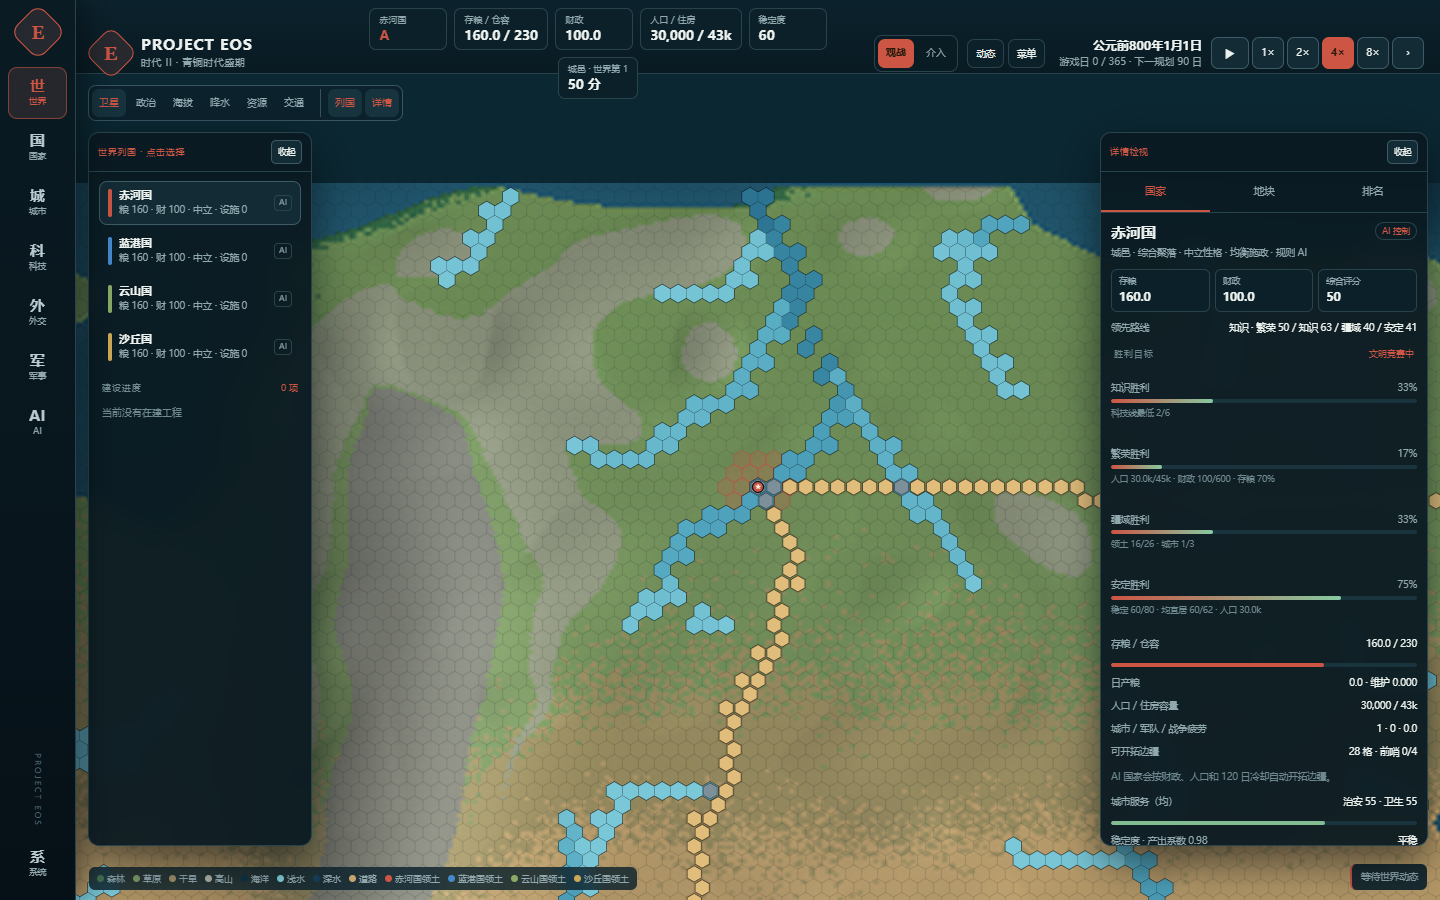
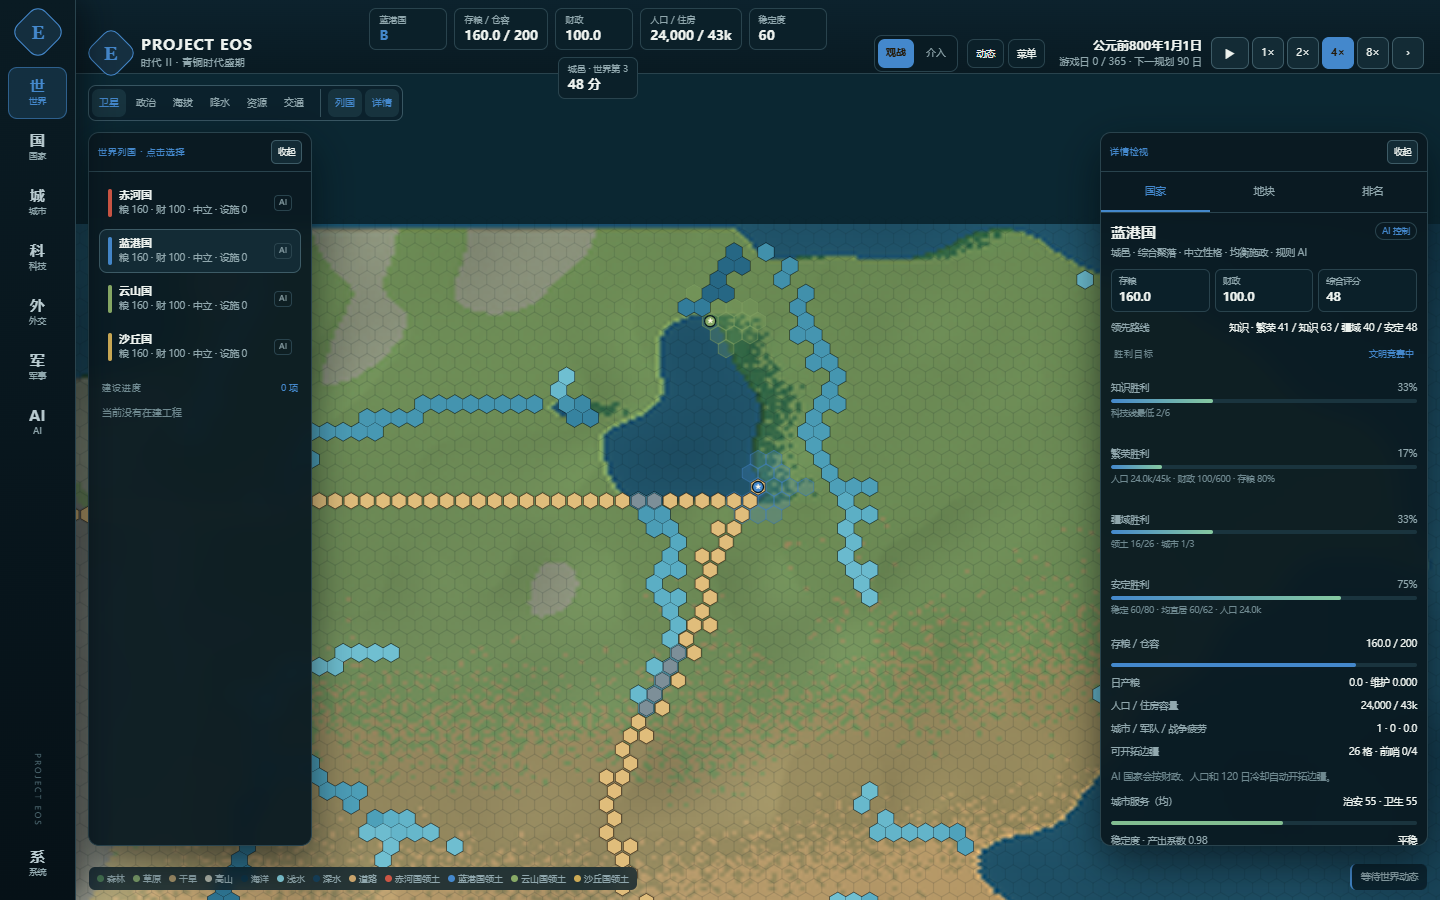
fix(map): keep city centers on dry land
- Exclude river cells from v2 capital placement
- Reject SETTLE on river water and filter river tiles from AI frontier choices
- Disable the settle button for river tiles in the UI
- Refresh v2 screenshots and test counts

diff --git a/dashboard.html b/dashboard.html
@@ -1024,6 +1024,7 @@ function settleConditions(tile){
   const expansion=STATE.expansion||{};
   const adjacent=(country.tiles||[]).some(coord=>hexDistance([tile.col,tile.row],coord)===1);
   const unowned=!tile.owner;
+  const dryLand=!tile.river;
   const outpostOk=(country.outposts||[]).length<(expansion.max_outposts??4);
   const popOk=country.population>=(expansion.minimum_population??10000);
   const cost=expansion.treasury_cost??35;
@@ -1031,11 +1032,12 @@ function settleConditions(tile){
   const checks=[
     {label:'与本国领土相邻',ok:adjacent},
     {label:'地块无归属',ok:unowned},
+    {label:'不是河道水面',ok:dryLand},
     {label:`新建城市 ${(country.outposts||[]).length} / ${expansion.max_outposts??4}`,ok:outpostOk},
     {label:`人口 ≥ ${fmtInt(expansion.minimum_population??10000)}`,ok:popOk},
     {label:`国库 ≥ ${cost}（现有 ${fmtNum(country.treasury,1)}）`,ok:moneyOk},
   ];
-  return {adjacent,ok:adjacent&&unowned&&outpostOk&&popOk&&moneyOk,checks,cost};
+  return {adjacent,ok:adjacent&&unowned&&dryLand&&outpostOk&&popOk&&moneyOk,checks,cost};
 }
 function canSettleHere(tile){
   return settleConditions(tile).ok;
@@ -1048,7 +1050,7 @@ function frontierTiles(cid){
   const result=[];
   for(const [col,row] of (country.tiles||[]))for(const [nc,nr] of hexNeighbors(col,row)){
     const key=nc+','+nr;if(owned.has(key))continue;
-    const tile=getTile(nc,nr);if(tile&&tile[2])result.push([nc,nr]);
+    const tile=getTile(nc,nr);if(tile&&tile[2]&&!tile[5])result.push([nc,nr]);
   }
   return result;
 }

diff --git a/mapgen.py b/mapgen.py
@@ -102,7 +102,7 @@ def _archetype_specs(land, elev, biome, p, tmean, river, basin, slope, dist_ocea
     }
 
 
-def _place_capitals(countries, land, elev, biome, p, tmean, river, basin, slope, dist_ocean, hazards, lat, w=W, h=H, allow_fallback=False):
+def _place_capitals(countries, land, elev, biome, p, tmean, river, basin, slope, dist_ocean, hazards, lat, w=W, h=H, allow_fallback=False, forbidden=None):
     specs = _archetype_specs(
         land, elev, biome, p, tmean, river, basin, slope, dist_ocean, hazards, lat
     )
@@ -113,6 +113,8 @@ def _place_capitals(countries, land, elev, biome, p, tmean, river, basin, slope,
         location = None
         for separation in (12, 10, 8, 6):
             candidate_scores = np.where(valid, score, -1e8).copy()
+            if forbidden is not None:
+                candidate_scores[forbidden] = -1e8
             for capital in placed:
                 for y in range(H):
                     for x in range(W):
@@ -125,6 +127,8 @@ def _place_capitals(countries, land, elev, biome, p, tmean, river, basin, slope,
                 break
         if location is None and allow_fallback:
             candidate_scores = np.where(land, score, -1e8).copy()
+            if forbidden is not None:
+                candidate_scores[forbidden] = -1e8
             for capital in placed:
                 for y in range(h):
                     for x in range(w):

diff --git a/mapgen_v2.py b/mapgen_v2.py
@@ -337,7 +337,7 @@ def _generate_candidate(seed: int, countries: list[dict[str, Any]]) -> dict[str,
     capitals = mapgen._place_capitals(
         countries, polity_land, v2_elev, polity_biome, polity_p, polity_tmean,
         polity_river, polity_basin, v2_slope, polity_dist_ocean,
-        polity_hazards, polity_lat, V2_WIDTH, V2_HEIGHT, True,
+        polity_hazards, polity_lat, V2_WIDTH, V2_HEIGHT, True, polity_river,
     )
     available = polity_land.copy()
     ownership, territories = mapgen._grow_equal_territories(
@@ -517,6 +517,11 @@ def validate_v2(world: dict[str, Any]) -> bool:
         assert len(polity["initial_tiles"]) == mapgen.CORE_TILES
         capital = (polity["capital"]["col"], polity["capital"]["row"])
         assert capital in {tuple(coord) for coord in polity["initial_tiles"]}
+        capital_tile = next(
+            tile for tile in world["tiles"]
+            if (tile["col"], tile["row"]) == capital
+        )
+        assert capital_tile["land"] and not capital_tile["river"], "capital must be dry land"
         for coord in polity["initial_tiles"]:
             assert tuple(coord) not in all_occupied
             all_occupied.add(tuple(coord))

diff --git a/tests/test_actions.py b/tests/test_actions.py
@@ -540,3 +540,23 @@ def test_ai_frontier_expansion_creates_city_and_skips_player(engine):
                 for e in state.event_log
             )
             break
+
+
+def test_settle_rejects_river_water_tile(engine):
+    state = engine.state
+    country = state.countries["ELAR"]
+    owned = {coord for entity in state.countries.values() for coord in entity.tiles}
+    river_tile = next(
+        tile for tile in state.world.tiles.values()
+        if tile["land"] and tile["river"] and (tile["col"], tile["row"]) not in owned
+    )
+    dry_neighbor = next(
+        neighbor for neighbor in state.world.neighbors(river_tile["col"], river_tile["row"])
+        if state.world.tile(neighbor)["land"] and not state.world.tile(neighbor)["river"]
+    )
+    country.tiles.append(dry_neighbor)
+    result = engine.apply_action("ELAR", {
+        "type": "SETTLE", "tile": {"col": river_tile["col"], "row": river_tile["row"]},
+    })
+    assert not result.accepted
+    assert result.reason_code == "RIVER_TILE"

diff --git a/core/rules.py b/core/rules.py
@@ -124,6 +124,8 @@ class RuleEngine:
             )
             if occupied_by is not None:
                 raise ActionRejected("TILE_ALREADY_OWNED", f"地块已属于 {occupied_by}")
+            if tile["river"]:
+                raise ActionRejected("RIVER_TILE", "不能在河道水面上建城；请选择相邻的干燥陆地")
             if not any(hex_distance(coord, own) == 1 for own in country.tiles):
                 raise ActionRejected("NOT_ADJACENT", "前哨必须与本国现有领土相邻")
             expansion = self.state.config["expansion"]

diff --git a/agents/scheduler.py b/agents/scheduler.py
@@ -118,7 +118,7 @@ def build_observation(state, country_id: str) -> dict[str, Any]:
                 continue
             frontier_seen.add(neighbor)
             tile = state.world.tile(neighbor)
-            if tile["land"]:
+            if tile["land"] and not tile["river"]:
                 frontier.append({
                     "col": neighbor[0], "row": neighbor[1],
                     "biome": tile["biome"], "river": tile["river"],

diff --git a/core/frontier.py b/core/frontier.py
@@ -21,7 +21,7 @@ def choose_frontier(state, country) -> tuple[int, int] | None:
             if coord in owned or coord in candidates:
                 continue
             tile = state.world.tile(coord)
-            if not tile["land"]:
+            if not tile["land"] or tile["river"]:
                 continue
             foreign_neighbor = any(
                 neighbor in owned and owned[neighbor] != country.country_id

diff --git a/DEVELOPER_MANUAL.md b/DEVELOPER_MANUAL.md
@@ -1,6 +1,6 @@
 # Project Eos 开发说明书
 
-> 面向共同开发者的工程手册。最后更新：2026-11-11，对应当前代码与 95 项测试。
+> 面向共同开发者的工程手册。最后更新：2026-11-11，对应当前代码与 96 项测试。
 >
 > 代码是最终事实来源；当本文与代码不一致时，以代码为准，并请顺手更新本文。
 
@@ -54,7 +54,7 @@ Project Eos 是一个本地运行的文明模拟沙盘：
 | 军事 | 招募、行军、宣战、边境/远征战斗、占领、战争疲劳、和平 |
 | 目标 | 综合评分、四条正式胜利路线、自动结算、继续本局 |
 | AI | 多国规则 AI、OpenAI 兼容模型、逐国切换、预算/Token 记录、失败回退 |
-| 工程 | 存档槽、自动保存、动作日志回放、世界哈希校验、95 项 pytest |
+| 工程 | 存档槽、自动保存、动作日志回放、世界哈希校验、96 项 pytest |
 
 设计原则（来自 `PROJECT_PLAN.md`）：
 
@@ -1215,7 +1215,7 @@ POST /api/agents/budget
 | `test_agents_replay.py` | 观察隔离、AI 贸易、研究、玩家跳过、365 日、回放、断点续跑 |
 | `test_llm_adapter.py` | OpenAI 兼容协议、重试、预算、Usage、混用、失败回退 |
 
-当前：**95 passed**。
+当前：**96 passed**。
 
 ### 15.2 测试原则
 
@@ -1514,7 +1514,7 @@ livability, managed_by, zones, buildings, tiles_detail
 - 科技：3 线 × 6 级。
 - 默认规划周期：90 日。
 - 自动保存：每 30 日。
-- 测试：95 项。
+- 测试：96 项。
 - 实时服务默认端口：8765。
 
 ---

diff --git a/README.md b/README.md
@@ -1,6 +1,6 @@
 # Project Eos — 架空大陆世界底座与 v0.2 策略模拟器
 
-状态：**可运行的本地文明模拟垂直切片。已实现公平随机世界、多国 AI（默认四国，支持 2–12 国）、连续地形 + 144×108 细六边形地图、逐日经济、科技与时代、建设、外交、军事、正式胜利条件、城市实体与双视角、城市分区/邻接/宜居度/粮食物流/地方预算、AI/手动/LLM 三种城市治理、激进/中立/保守三种 AI 性格、一级/二级指挥台导航、地图通知气泡、存档槽与动作回放。本地实时指挥台支持观战/介入。95 项 pytest 全绿；长期平衡实验使用 Mock，DeepSeek 已完成小规模真实动作闭环。**
+状态：**可运行的本地文明模拟垂直切片。已实现公平随机世界、多国 AI（默认四国，支持 2–12 国）、连续地形 + 144×108 细六边形地图、逐日经济、科技与时代、建设、外交、军事、正式胜利条件、城市实体与双视角、城市分区/邻接/宜居度/粮食物流/地方预算、AI/手动/LLM 三种城市治理、激进/中立/保守三种 AI 性格、一级/二级指挥台导航、地图通知气泡、存档槽与动作回放。本地实时指挥台支持观战/介入。96 项 pytest 全绿；长期平衡实验使用 Mock，DeepSeek 已完成小规模真实动作闭环。**
 
 > 共同开发请先读 [`DEVELOPER_MANUAL.md`](DEVELOPER_MANUAL.md)：环境、架构、动作协议、API、存档/回放、测试与协作规范。
 >

diff --git a/PROJECT_EOS_DEVELOPMENT_REPORT.md b/PROJECT_EOS_DEVELOPMENT_REPORT.md
@@ -2,7 +2,7 @@
 
 > 报告日期：2026-11-11  
 > 当前代码版本：v0.32 系列  
-> 测试状态：**95 passed**  
+> 测试状态：**96 passed**  
 > 仓库：<https://github.com/xd666-afk/PROJECT-EOS>  
 > 说明：本报告汇总从地图底座恢复、策略模拟器、城市系统、AI 接入到多国架构的完整演进，包含设计思路、最终落地效果、验证数据和遗留问题。
 
